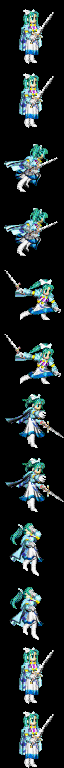
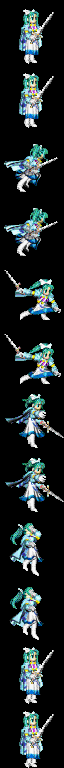
Breathing frames: the lower body sways a pixel or two with the breath (feet planted)
Claude-Session: https://claude.ai/code/session_01DQWC7xTsxVudAbpPbiVFX3

Changed region(s): [[0.2812, 0.875, 0.6562, 0.9375], [0.2812, 0.9688, 0.6562, 1.0]]

diff --git a/tools/dark_story/make_breath_frames.py b/tools/dark_story/make_breath_frames.py
@@ -25,6 +25,15 @@ for source, dest in JOBS:
         if y in (int(h * 0.35), int(h * 0.62)):
             rows.append(art[y])
     new = np.stack(rows)
+    # the lower body sways: from the waist down to just above the feet, the
+    # rows shift one pixel (two near the hem), so the cloak, skirt and legs
+    # move with the breath while the feet stay planted
+    n = new.shape[0]
+    for y in range(int(n * 0.62), n - 5):
+        shift = 2 if y > n * 0.82 else 1
+        row = np.zeros_like(new[y])
+        row[shift:] = new[y][:-shift]       # no wrap-around at the edge
+        new[y] = row
     assert t - 2 >= 0, (source, t)
     out = Image.new("RGBA", src.size, (0, 0, 0, 0))
     out.alpha_composite(Image.fromarray(new), (l, b - new.shape[0]))
